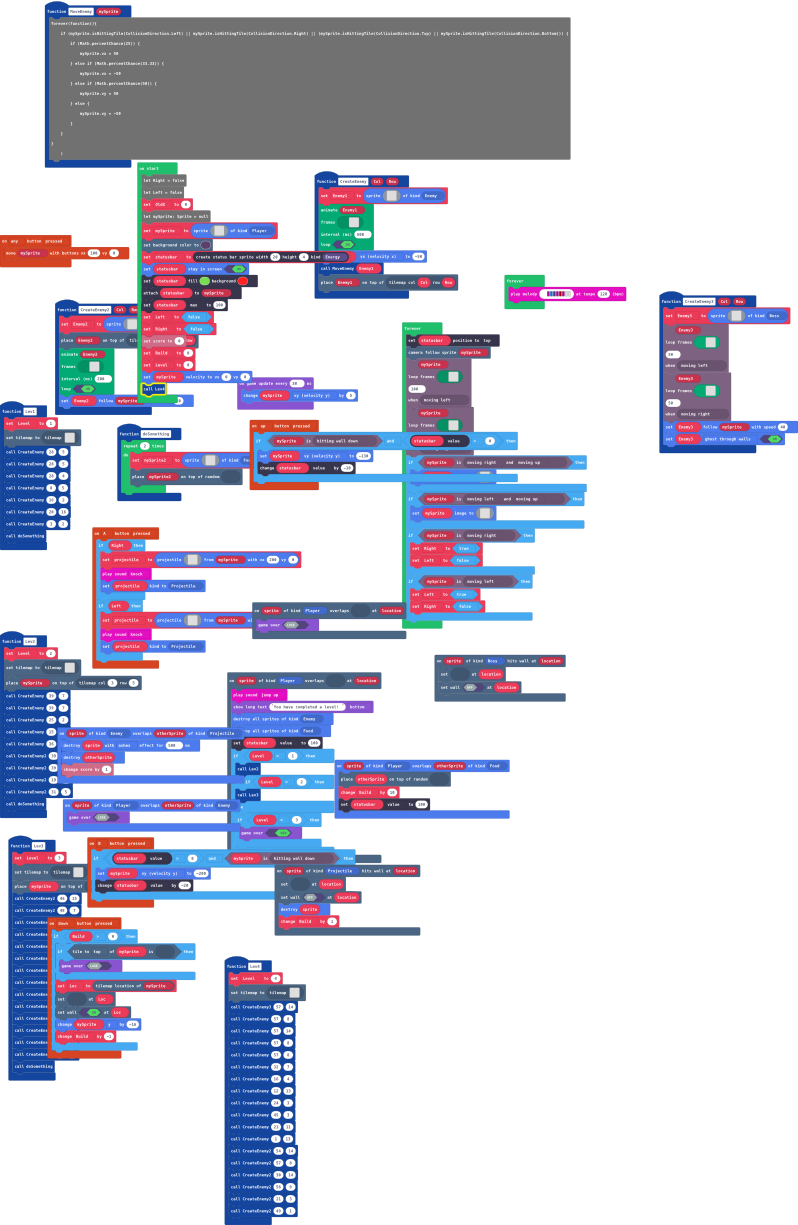
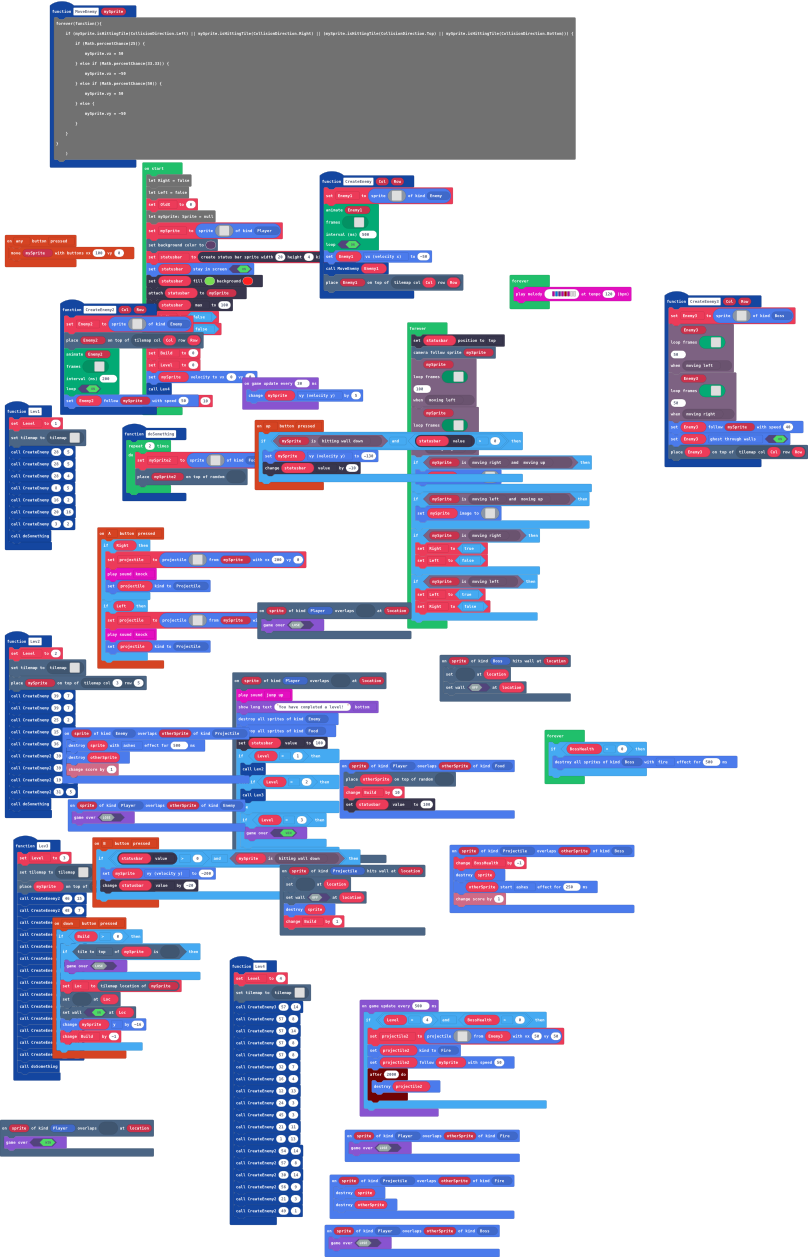
Update pxt.json, main.blocks, main.ts

diff --git a/main.ts b/main.ts
@@ -1,6 +1,7 @@
 namespace SpriteKind {
     export const Blocker = SpriteKind.create()
     export const Boss = SpriteKind.create()
+    export const Fire = SpriteKind.create()
 }
 scene.onOverlapTile(SpriteKind.Player, assets.tile`myTile0`, function (sprite, location) {
     game.over(false)
@@ -95,6 +96,10 @@ controller.B.onEvent(ControllerButtonEvent.Pressed, function () {
         statusbar.value += -20
     }
 })
+sprites.onOverlap(SpriteKind.Projectile, SpriteKind.Fire, function (sprite, otherSprite) {
+    sprite.destroy()
+    otherSprite.destroy()
+})
 controller.anyButton.onEvent(ControllerButtonEvent.Pressed, function () {
     controller.moveSprite(mySprite, 100, 0)
 })
@@ -113,6 +118,9 @@ function Lev2 () {
     CreateEnemy2(31, 5)
     doSomething()
 }
+sprites.onOverlap(SpriteKind.Player, SpriteKind.Fire, function (sprite, otherSprite) {
+    game.over(false)
+})
 function MoveEnemy (mySprite: Sprite) {
     forever(function(){
     if (mySprite.isHittingTile(CollisionDirection.Left) || mySprite.isHittingTile(CollisionDirection.Right) || (mySprite.isHittingTile(CollisionDirection.Top) || mySprite.isHittingTile(CollisionDirection.Bottom))) {
@@ -177,6 +185,12 @@ function Lev3 () {
     CreateEnemy(20, 13)
     doSomething()
 }
+sprites.onOverlap(SpriteKind.Projectile, SpriteKind.Boss, function (sprite, otherSprite) {
+    BossHealth += -1
+    sprite.destroy()
+    otherSprite.startEffect(effects.ashes, 250)
+    info.changeScoreBy(1)
+})
 sprites.onOverlap(SpriteKind.Enemy, SpriteKind.Projectile, function (sprite, otherSprite) {
     sprite.destroy(effects.ashes, 500)
     otherSprite.destroy()
@@ -232,6 +246,9 @@ controller.down.onEvent(ControllerButtonEvent.Pressed, function () {
         mySprite.y += -16
         Build += -1
     }
+})
+scene.onOverlapTile(SpriteKind.Player, assets.tile`myTile2`, function (sprite, location) {
+    game.over(true)
 })
 function CreateEnemy3 (Col: number, Row: number) {
     Enemy3 = sprites.create(img`
@@ -566,6 +583,7 @@ function CreateEnemy3 (Col: number, Row: number) {
     )
     Enemy3.follow(mySprite, 40)
     Enemy3.setFlag(SpriteFlag.GhostThroughWalls, true)
+    tiles.placeOnTile(Enemy3, tiles.getTileLocation(Col, Row))
 }
 sprites.onOverlap(SpriteKind.Player, SpriteKind.Food, function (sprite, otherSprite) {
     tiles.placeOnRandomTile(otherSprite, assets.tile`transparency16`)
@@ -666,6 +684,10 @@ function CreateEnemy (Col: number, Row: number) {
 sprites.onOverlap(SpriteKind.Player, SpriteKind.Enemy, function (sprite, otherSprite) {
     game.over(false)
 })
+sprites.onOverlap(SpriteKind.Player, SpriteKind.Boss, function (sprite, otherSprite) {
+    game.over(false)
+})
+let projectile2: Sprite = null
 let Enemy1: Sprite = null
 let Enemy3: Sprite = null
 let Loc: tiles.Location = null
@@ -693,6 +715,7 @@ Build = 0
 Level = 0
 mySprite.setVelocity(0, 0)
 Lev4()
+let BossHealth = 10
 game.onUpdateInterval(30, function () {
     mySprite.vy += 5
 })
@@ -977,5 +1000,37 @@ forever(function () {
     if (characterAnimations.matchesRule(mySprite, characterAnimations.rule(Predicate.MovingLeft))) {
         Left = true
         Right = false
+    }
+})
+forever(function () {
+    if (BossHealth == 0) {
+        sprites.destroyAllSpritesOfKind(SpriteKind.Boss, effects.fire, 500)
+    }
+})
+game.onUpdateInterval(500, function () {
+    if (Level == 4 && BossHealth > 0) {
+        projectile2 = sprites.createProjectileFromSprite(img`
+            . . . . . . . . . . . . . . . . 
+            . . . . . . . . . . . . . . . . 
+            . . . . . 4 4 4 4 4 . . . . . . 
+            . . . 4 4 4 5 5 5 d 4 4 4 4 . . 
+            . . 4 d 5 d 5 5 5 d d d 4 4 . . 
+            . . 4 5 5 1 1 1 d d 5 5 5 4 . . 
+            . 4 5 5 5 1 1 1 5 1 1 5 5 4 4 . 
+            . 4 d d 1 1 5 5 5 1 1 5 5 d 4 . 
+            . 4 5 5 1 1 5 1 1 5 5 d d d 4 . 
+            . 2 5 5 5 d 1 1 1 5 1 1 5 5 2 . 
+            . 2 d 5 5 d 1 1 1 5 1 1 5 5 2 . 
+            . . 2 4 d d 5 5 5 5 d d 5 4 . . 
+            . . . 2 2 4 d 5 5 d d 4 4 . . . 
+            . . 2 2 2 2 2 4 4 4 2 2 2 . . . 
+            . . . 2 2 4 4 4 4 4 4 2 2 . . . 
+            . . . . . 2 2 2 2 2 2 . . . . . 
+            `, Enemy3, 50, 50)
+        projectile2.setKind(SpriteKind.Fire)
+        projectile2.follow(mySprite, 50)
+        timer.after(2000, function () {
+            projectile2.destroy()
+        })
     }
 })
